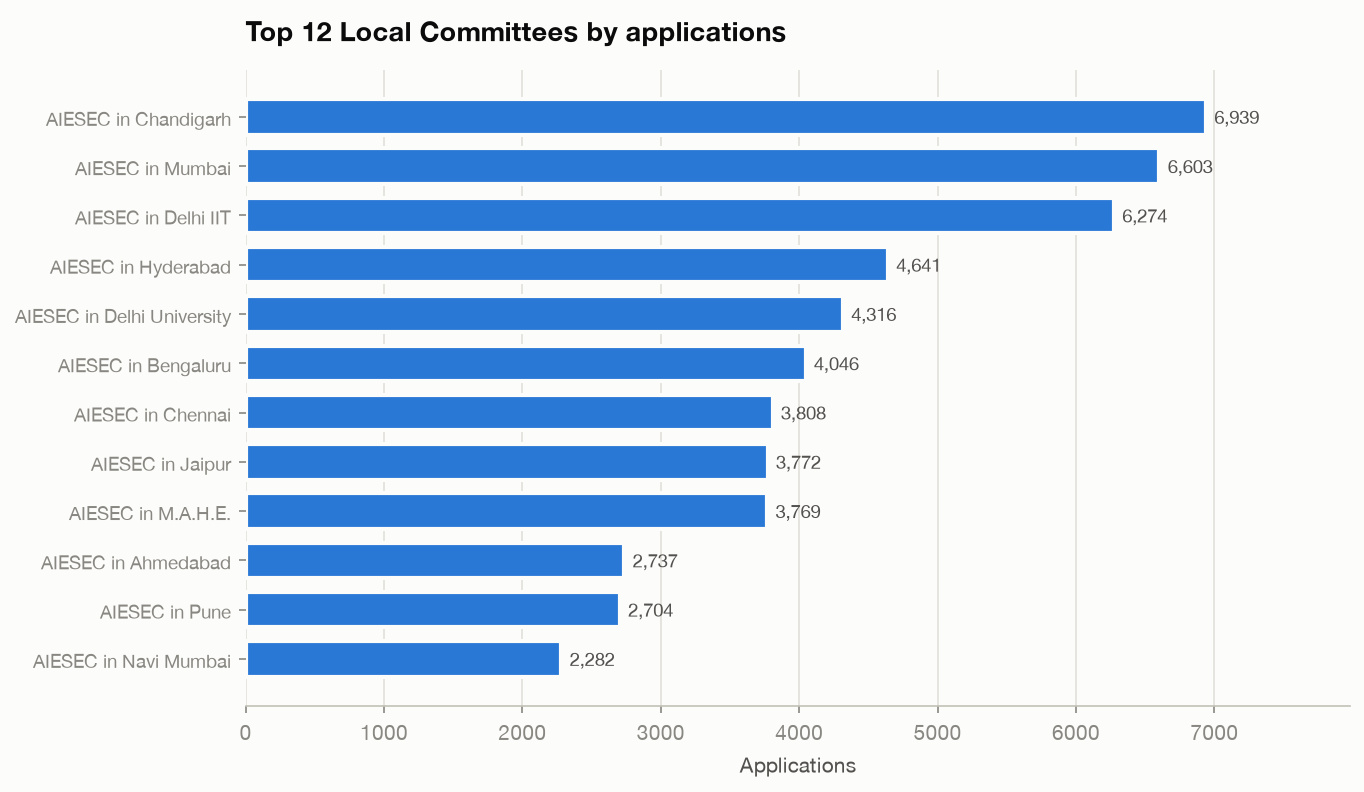
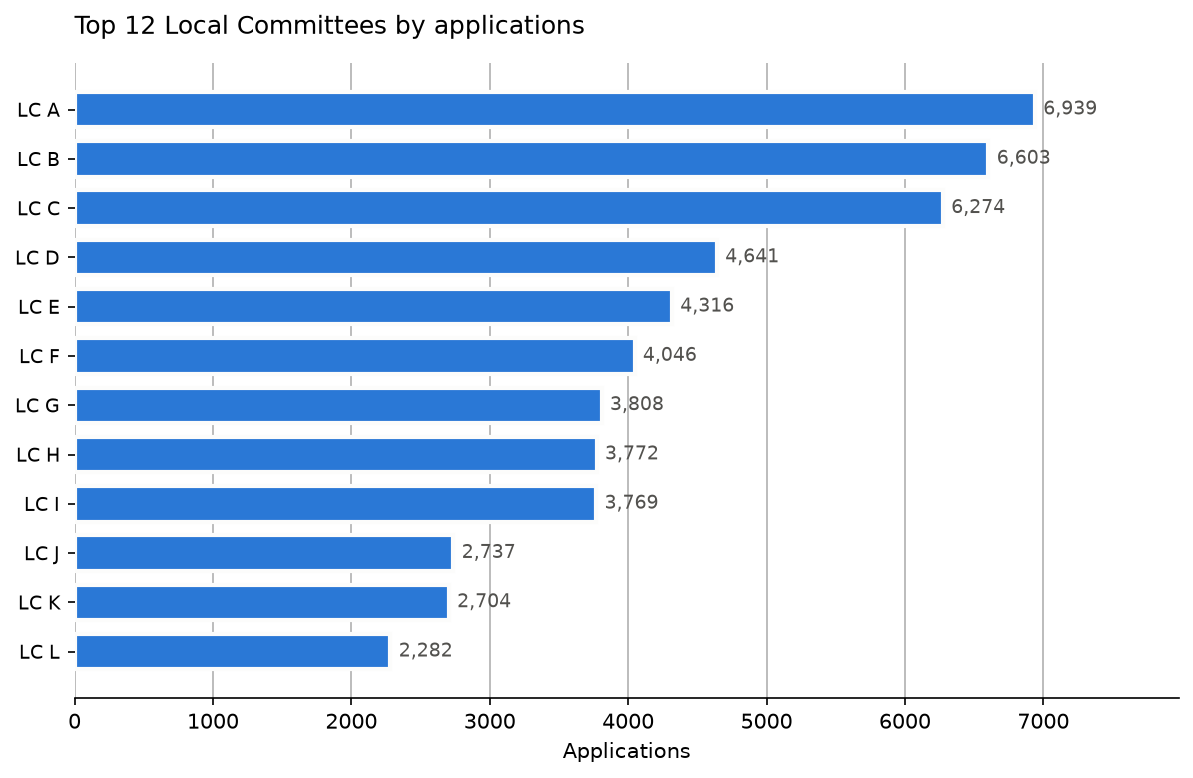
Anonymise Local Committee identities in the public README
Names individual LCs alongside their conversion performance was real
internal AIESEC operational data on a public page. The README table,
prose, generated-insight sample and the embedded entity figure now use
LC A-J labels; every number and the ordering are unchanged.

Identified data remains in outputs/reports/entity_performance.csv and on
the dashboard, which the deployed app reads directly.

Changed region(s): [[0.0, 0.0925, 0.9925, 0.9871], [0.062, 0.0, 0.5893, 0.0617], [0.062, 0.8946, 0.093, 0.9254]]

diff --git a/README.md b/README.md
@@ -366,7 +366,7 @@ funnel status and per child office:
   "analytics": {
     "offices": {
       "buckets": [{
-        "key": 90001, "key_as_string": "AIESEC in Mumbai", "doc_count": 143,
+        "key": 90001, "key_as_string": "AIESEC in Example", "doc_count": 143,
         "directions": {
           "buckets": [{
             "key": "outgoing", "doc_count": 106,
@@ -725,30 +725,31 @@ which is the planning ratio for recruitment targets.
 
 | # | Local Committee | Applications | Realizations | MC share | APP→RE | Growth 22→25 |
 |---|---|---:|---:|---:|---:|---:|
-| 1 | AIESEC in Chandigarh | 6,939 | 120 | 10.5% | 1.73% | +69.8% |
-| 2 | AIESEC in Mumbai | 6,603 | **332** | 10.0% | 5.03% | −17.4% |
-| 3 | AIESEC in Delhi IIT | 6,274 | 137 | 9.5% | 2.18% | −15.7% |
-| 4 | AIESEC in Hyderabad | 4,641 | 128 | 7.0% | 2.76% | **+237.1%** |
-| 5 | AIESEC in Delhi University | 4,316 | 68 | 6.5% | 1.58% | −25.1% |
-| 6 | AIESEC in Bengaluru | 4,046 | 79 | 6.1% | 1.95% | −2.5% |
-| 7 | AIESEC in Chennai | 3,808 | 111 | 5.8% | 2.91% | +54.1% |
-| 8 | AIESEC in Jaipur | 3,772 | **304** | 5.7% | **8.06%** | +86.1% |
-| 9 | AIESEC in M.A.H.E. | 3,769 | 166 | 5.7% | 4.40% | **+471.7%** |
-| 10 | AIESEC in Ahmedabad | 2,737 | 138 | 4.1% | 5.04% | +21.5% |
+| 1 | LC A | 6,939 | 120 | 10.5% | 1.73% | +69.8% |
+| 2 | LC B | 6,603 | **332** | 10.0% | 5.03% | −17.4% |
+| 3 | LC C | 6,274 | 137 | 9.5% | 2.18% | −15.7% |
+| 4 | LC D | 4,641 | 128 | 7.0% | 2.76% | **+237.1%** |
+| 5 | LC E | 4,316 | 68 | 6.5% | 1.58% | −25.1% |
+| 6 | LC F | 4,046 | 79 | 6.1% | 1.95% | −2.5% |
+| 7 | LC G | 3,808 | 111 | 5.8% | 2.91% | +54.1% |
+| 8 | LC H | 3,772 | **304** | 5.7% | **8.06%** | +86.1% |
+| 9 | LC I | 3,769 | 166 | 5.7% | 4.40% | **+471.7%** |
+| 10 | LC J | 2,737 | 138 | 4.1% | 5.04% | +21.5% |
+
+<sub>Local Committees are anonymised in this public README. The identified breakdown is in
+`outputs/reports/entity_performance.csv` and on the dashboard.</sub>
 
 - **The top 5 LCs generate 43.4% of all applications; the top 10 generate 70.8%** across
   33 active entities. National performance inherits the risk of a handful of LCs.
-- **Conversion is not uniform — it varies 5× across comparable LCs.** Jaipur converts
-  **8.06%** APP→RE; Chandigarh, on *more* applications, converts **1.73%**. Delhi
-  University sits at 1.58%.
-- **Rank by applications and rank by realizations are different orderings.** Chandigarh is
-  #1 on intake but **#8 on realizations**; Jaipur is #8 on intake but **#2 on
-  realizations** — from 46% fewer applications than Chandigarh it produces **2.5× more
-  realizations**.
+- **Conversion is not uniform — it varies 5× across comparable LCs.** LC H converts
+  **8.06%** APP→RE; LC A, on *more* applications, converts **1.73%**. LC E sits at 1.58%.
+- **Rank by applications and rank by realizations are different orderings.** LC A is #1 on
+  intake but **#8 on realizations**; LC H is #8 on intake but **#2 on realizations** —
+  from 46% fewer applications than LC A it produces **2.5× more realizations**.
 
 > Because the spread is this wide, the highest-leverage action is **transferring practice,
-> not reforming process**: find what Jaipur and Ahmedabad do at matching and propagate it
-> to the high-volume, low-conversion LCs.
+> not reforming process**: find what the top-converting LCs do at matching and propagate it
+> to the high-volume, low-conversion ones.
 
 ### Programme performance
 
@@ -889,9 +890,9 @@ Dec 2026,1533,Medium,2026-12-01,12,223,3164,Medium,Low,holt_winters,10,7.26
    realizations (0.51%, ≈197 applications per realization). GV converts at 8–10%.
 5. **Reverse the iGV decline.** The single most productive programme (43% of all
    realizations) shrank 21.8% over the period while the worst converters grew.
-6. **Propagate what Jaipur does.** Conversion ranges 1.6%–8.1% across comparable LCs;
-   Jaipur produces 2.5× Chandigarh's realizations from 46% fewer applications. This is a
-   transferable-practice problem, not a systemic one.
+6. **Propagate what the best-converting LC does.** Conversion ranges 1.6%–8.1% across
+   comparable LCs; the best produces 2.5× the top-volume LC's realizations from 46% fewer
+   applications. This is a transferable-practice problem, not a systemic one.
 7. **Track realizations, not applications, as the headline metric.** Applications grew
    38.6% since 2022 while realizations fell from their 2024 peak — the current headline
    hides the trend that matters.
@@ -942,7 +943,7 @@ Findings generated directly from the data — **every number computed, none hand
 [Funnel]      The biggest drop-off is APP to ACH, losing 85% of candidates.
 [Funnel]      3.5% of applications convert all the way to a realization.
 [Entities]    The top 5 Local Committees generate 43% of all applications.
-[Entities]    AIESEC in M.A.H.E. is the fastest-growing large LC at +471.7% (2022->2025).
+[Entities]    <LC name> is the fastest-growing large LC at +471.7% (2022->2025).
 [Products]    oGTa is the largest programme at 32% of all applications.
 [Model]       The selected model (holt_winters) achieves 87.1% accuracy (MAPE 12.9%).
 ```
